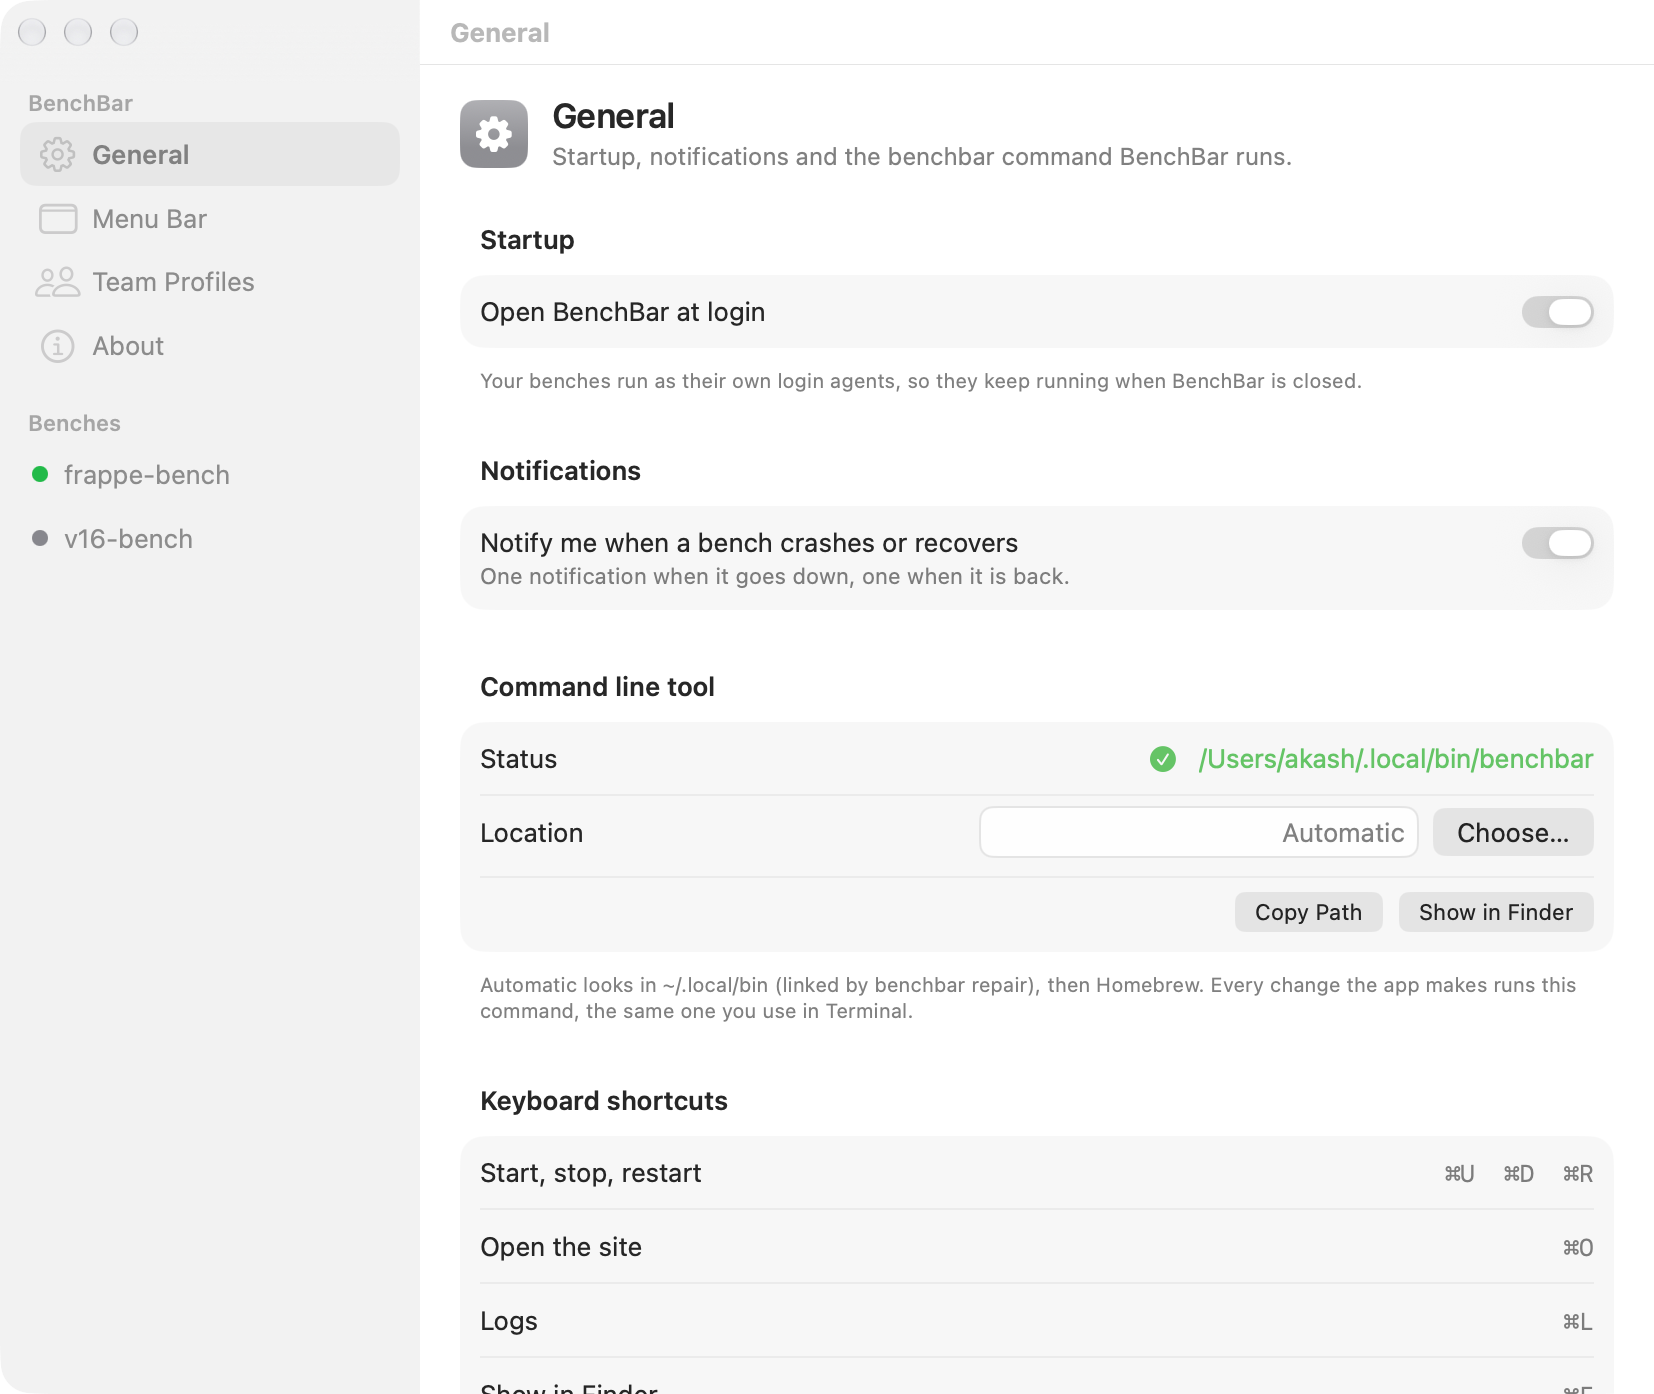
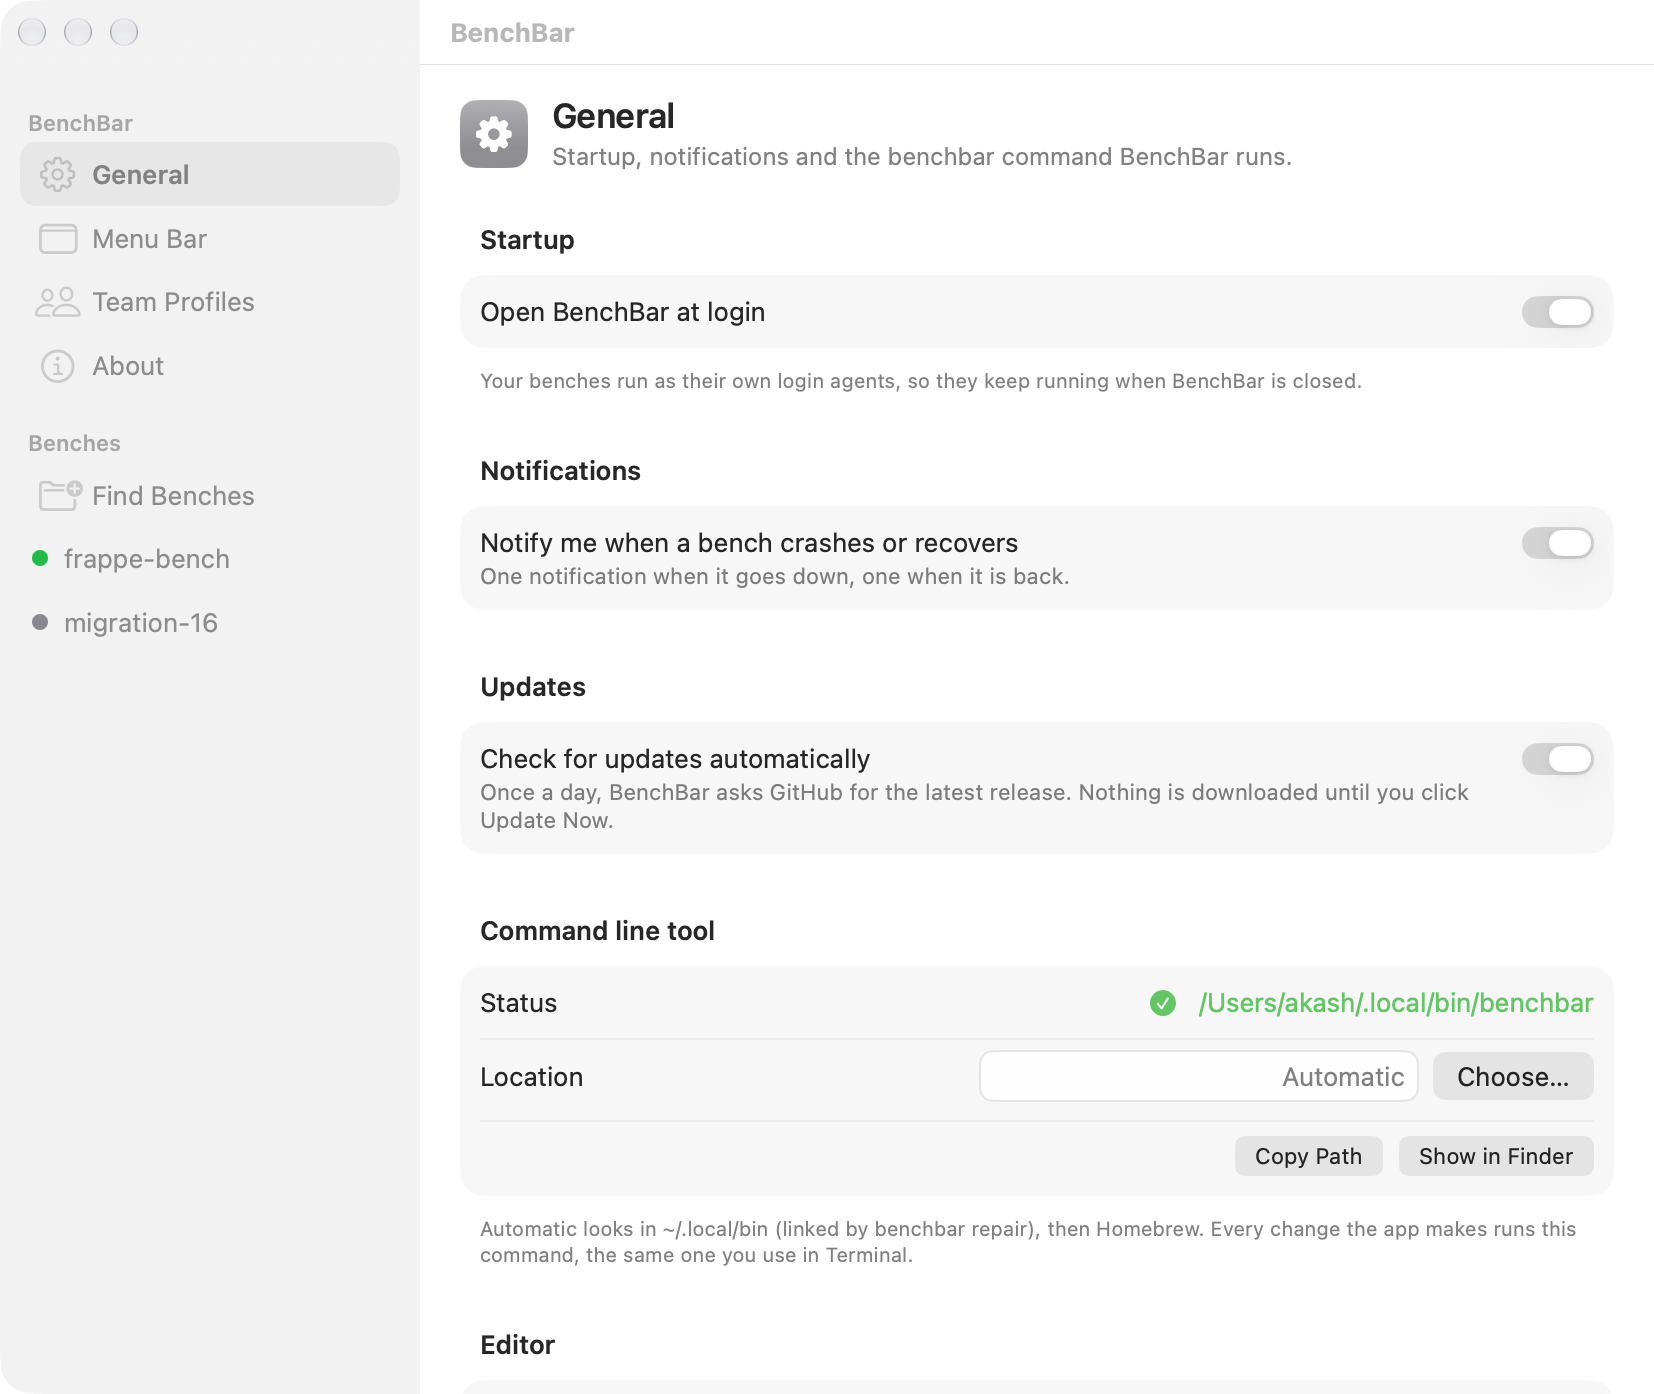
Docs: 0.6 window screenshots, add Team Profiles
Real window captures (screencapture -l) of Overview, Apps (focus menu and
Check Remotes, on migration-16), Health, General (Check for updates
automatically) and the new Team Profiles pane, linked from the app page
and the teams guide.

diff --git a/docs/app.md b/docs/app.md
@@ -87,7 +87,7 @@ opening BenchBar again from Finder or Spotlight. It has a page per bench:
 
 ![The BenchBar window: a bench's overview with Start, Stop, Restart, its site and ports, and the scheduler switch](images/window-overview.png)
 
-![A bench's apps: branch, repository, the sites that have each app, Install and Update](images/window-apps.png)
+![A bench's apps: branch, repository, the sites that have each app, the focus menu, Check Remotes, Install and Update](images/window-apps.png)
 
 ![A bench's health: doctor's warnings with their fixes, Run Doctor and Repair](images/window-health.png)
 
@@ -110,6 +110,8 @@ Above the benches:
   before they write, and nothing is installed from this page. See
   [Teams](guides/teams.md#team-profiles).
 - **About**: the versions, Check for Updates, Report a Bug.
+
+![Team Profiles: the built in profiles and a team profile with where each comes from, and the Import and Subscribe buttons](images/window-profiles.png)
 
 ## Updates
 
@@ -136,7 +138,7 @@ The close button on the banner hides it until the next version; the
 menu item stays. See [Updating](install.md#updating) for what the
 installer changes.
 
-![General settings: startup, notifications, the command line tool and keyboard shortcuts](images/window-general.png)
+![General settings: startup, notifications, Check for updates automatically and the command line tool](images/window-general.png)
 
 ## First run
 

diff --git a/docs/guides/teams.md b/docs/guides/teams.md
@@ -60,6 +60,8 @@ writes a copy that is safe to hand over, import and subscribe bring it
 in on the other side, and check says up front which repos a teammate
 cannot read.
 
+![Team Profiles in the app: the built in profiles and a team profile with where each comes from, and the Import and Subscribe buttons](../images/window-profiles.png)
+
 ### Sending one
 
 ```bash
